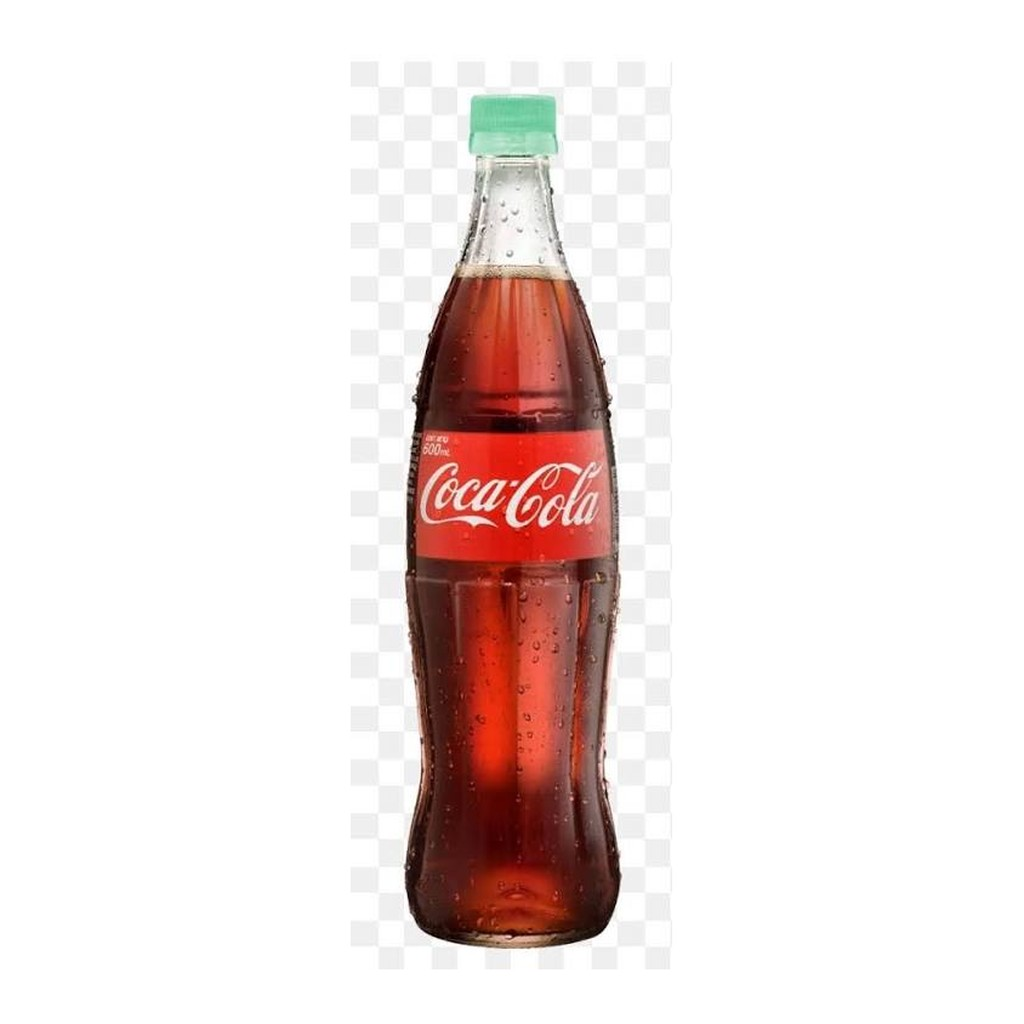
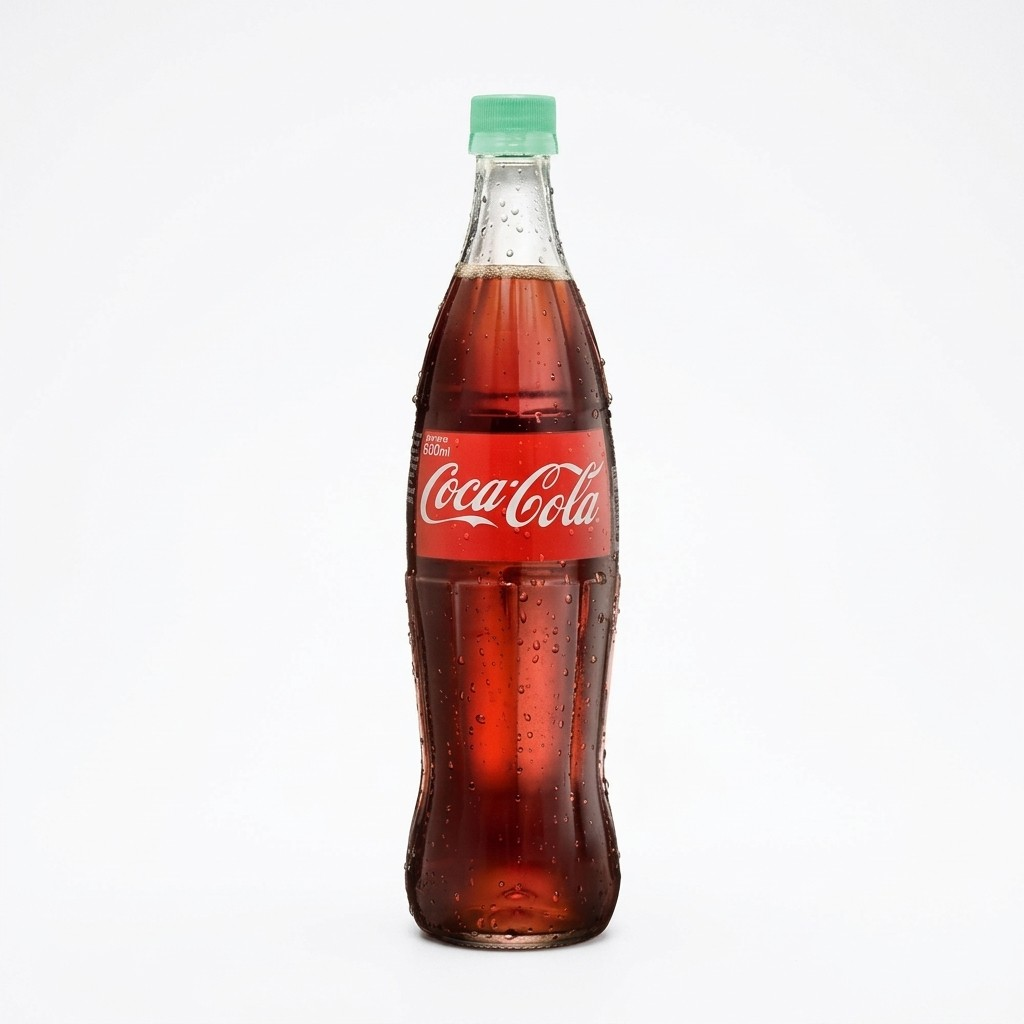
Ficha de bebidas: botella entera sin recortar y foto de la opción elegida; Coca popular con fondo limpio

diff --git a/src/panel/afiliado/Cliente.tsx b/src/panel/afiliado/Cliente.tsx
@@ -336,6 +336,7 @@ function HojaDetalle({ data, item, conTamanos, otras, onClose, onAdd }: {
   const [eligiendoMitad, setEligiendoMitad] = useState(false);
   const [opcion, setOpcion] = useState(item.opciones?.[0] ?? '');     // ítems simples con "elige una"
   const puedeMitad = conTamanos && !!data.mitad?.includes(tam.k) && otras.length > 0;
+  const esBebida = data.categorias.find((c) => c.items.includes(item))?.k === 'bebidas';
   const precioExtra = (e: string) => data.extras?.find((g) => g.items.includes(e))?.precio[tam.k] ?? 0;
   const extraP = extras.reduce((a, e) => a + precioExtra(e), 0);
   const p = conTamanos ? (precioDe(tam, borde && !!tam.borde) + extraP) * q : (item.p ?? 0) * q;
@@ -344,7 +345,11 @@ function HojaDetalle({ data, item, conTamanos, otras, onClose, onAdd }: {
   const LIMA = '#C6FF3D';
   return (
     <Hoja onClose={onClose}>
-      {item.foto && <div className="relative aspect-[16/10] mx-4 mt-2 rounded-2xl overflow-hidden bg-[#111]"><Foto src={item.foto} alt={item.n} /></div>}
+      {(item.fotos?.[opcion] ?? item.foto) && (
+        esBebida
+          ? <div className="mx-4 mt-2 rounded-2xl overflow-hidden bg-white aspect-[16/10]"><img src={item.fotos?.[opcion] ?? item.foto} alt={item.n} className="w-full h-full object-contain" /></div>   // botellas y jarras: enteras, sin recortar
+          : <div className="relative aspect-[16/10] mx-4 mt-2 rounded-2xl overflow-hidden bg-[#111]"><Foto src={item.foto!} alt={item.n} /></div>
+      )}
       <div className="px-5 pt-4">
         <h3 className="text-2xl font-extrabold leading-tight">{mitad ? `Mitad ${item.n} · Mitad ${mitad.n}` : item.n}</h3>
         <p className="text-sm text-white/60 mt-1">{mitad ? `${item.i} / ${mitad.i}` : item.i}</p>
